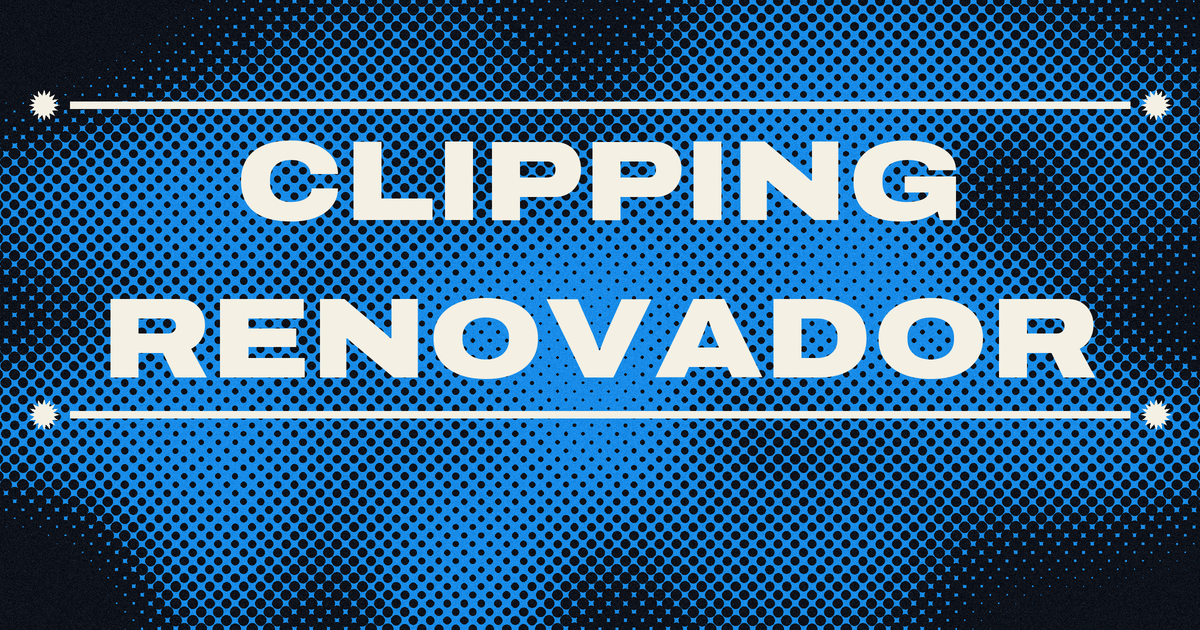
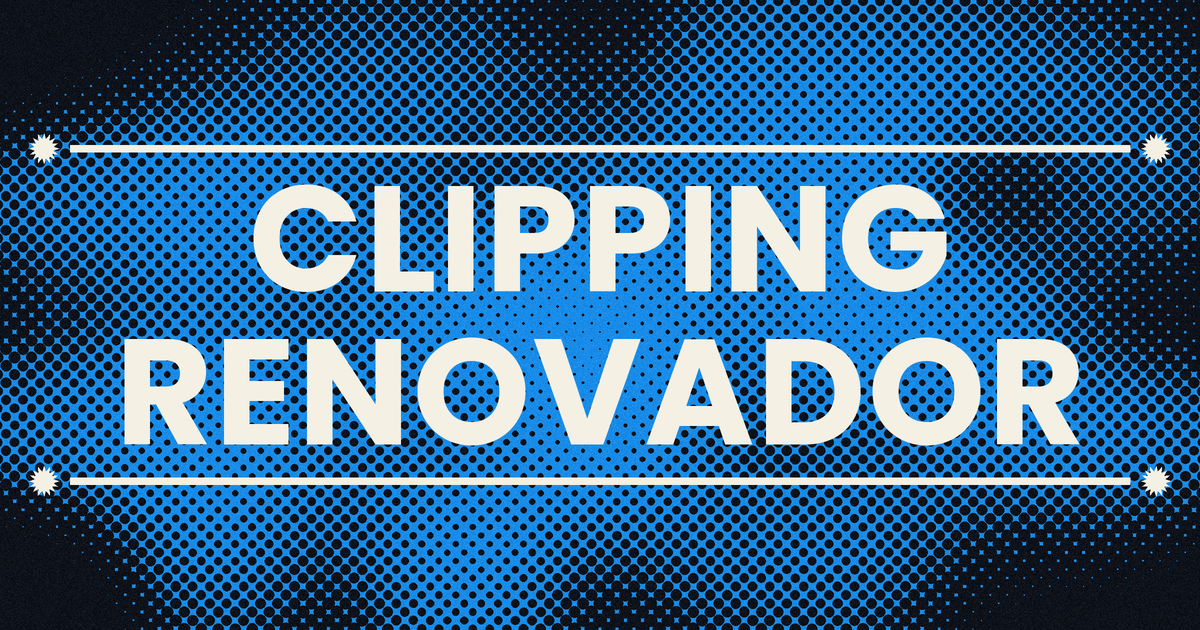
Vista previa: título centrado
Claude-Session: https://claude.ai/code/session_01HFtGSc5awzcsbVvtWbUzEu

Changed region(s): [[0.0308, 0.2111, 0.9867, 0.7238], [0.0, 0.7238, 0.9867, 0.7841], [0.0, 0.1508, 0.9867, 0.181]]

diff --git a/scripts/og.py b/scripts/og.py
@@ -154,7 +154,12 @@ def main():
             break
         tam -= 4
     grosor = 7 * E
-    y1, y2 = H * 0.19, H * 0.44
+    caja = d.textbbox((0, 0), "RENOVADOR", font=f)
+    alto_l = caja[3] - caja[1]
+    gap = alto_l * 0.42
+    arriba = (H - (2 * alto_l + gap)) / 2
+    y1 = arriba - caja[1]
+    y2 = y1 + alto_l + gap
     texto_centrado(d, y1, "CLIPPING", f, CREMA, espaciado=2 * E)
     bbox = d.textbbox((0, y1), "CLIPPING", font=f)
     alto = bbox[3] - bbox[1]
